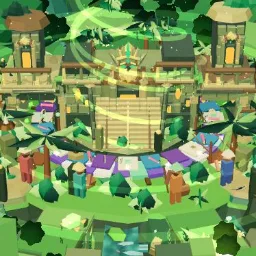
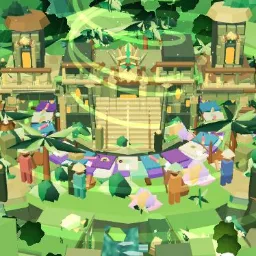
Island 008: blossoming canopy and clearings break up the green
Every fourth canopy cluster around the temple plaza now blossoms in pink,
orange or violet, reusing the leaf silhouettes so the authored triangle
count is unchanged (the high profile sits just under its 180k budget).
Medium and low profiles also get heliconia clumps and bare-earth
clearings. Refreshes the Island 008 voyage portrait.

Claude-Session: https://claude.ai/code/session_01XqK52i9xakX7fjXWS3xbbW

diff --git a/src/features/gamification/level-worlds/dev/Island18JungleExpeditionThreeWorld.ts b/src/features/gamification/level-worlds/dev/Island18JungleExpeditionThreeWorld.ts
@@ -1,4 +1,5 @@
 import * as THREE from 'three';
+import { createIsland18BlossomPass } from './Island18BlossomPass';
 import { JUNGLE_COMPASS_CEREMONY_DURATION_MS } from '../services/islandRunJungleMissionPresentation';
 import { RoundedBoxGeometry } from 'three/addons/geometries/RoundedBoxGeometry.js';
 import { mergeGeometries } from 'three/addons/utils/BufferGeometryUtils.js';
@@ -97,6 +98,10 @@ export interface Island18JungleExpeditionMaterials {
   flower: THREE.MeshStandardMaterial;
   flowerSun: THREE.MeshStandardMaterial;
   flowerCyan: THREE.MeshStandardMaterial;
+  /** Blossoming canopy clusters (Island 008 colour pass). */
+  blossomPink: THREE.MeshStandardMaterial;
+  blossomOrange: THREE.MeshStandardMaterial;
+  blossomViolet: THREE.MeshStandardMaterial;
   biolume: THREE.MeshStandardMaterial;
   basinGround: THREE.MeshStandardMaterial;
   canopyVolume: THREE.ShaderMaterial;
@@ -645,6 +650,9 @@ export function createIsland18JungleExpeditionMaterials(): Island18JungleExpedit
     flower: new THREE.MeshStandardMaterial({ color: 0xed64c6, roughness: 0.46, emissive: 0x71175d, emissiveIntensity: 0.26, side: THREE.DoubleSide }),
     flowerSun: new THREE.MeshStandardMaterial({ color: 0xffd452, roughness: 0.42, emissive: 0x9b5607, emissiveIntensity: 0.28, side: THREE.DoubleSide }),
     flowerCyan: new THREE.MeshStandardMaterial({ color: 0x6cf1e5, roughness: 0.38, emissive: 0x09897d, emissiveIntensity: 0.32, side: THREE.DoubleSide }),
+    blossomPink: new THREE.MeshStandardMaterial({ color: 0xff8cc3, roughness: 0.55, emissive: 0x6b1840, emissiveIntensity: 0.18, side: THREE.DoubleSide }),
+    blossomOrange: new THREE.MeshStandardMaterial({ color: 0xffa64a, roughness: 0.55, emissive: 0x6b3000, emissiveIntensity: 0.18, side: THREE.DoubleSide }),
+    blossomViolet: new THREE.MeshStandardMaterial({ color: 0xb894ff, roughness: 0.55, emissive: 0x35206b, emissiveIntensity: 0.18, side: THREE.DoubleSide }),
     biolume: new THREE.MeshStandardMaterial({ color: 0x9dff9a, roughness: 0.26, emissive: 0x28d76d, emissiveIntensity: 0.72, side: THREE.DoubleSide }),
     basinGround: new THREE.MeshStandardMaterial({ color: 0xffffff, vertexColors: true, roughness: 0.92, metalness: 0, flatShading: true }),
     canopyVolume: new THREE.ShaderMaterial({
@@ -1338,8 +1346,11 @@ function createInstancedCanopyField(
   const root = registerIsland18RuntimePart('jungle-canopy-and-vines', new THREE.Group(), 'foliage');
   root.name = 'ISLAND_18_INSTANCED_JUNGLE_CANOPY_FIELD';
   const leafGeometries = JUNGLE_LEAF_SILHOUETTES.map((silhouette) => createBroadLeafGeometry(silhouette));
-  const materialList = [materials.leafLight, materials.leaf, materials.leafDeep] as const;
-  const placements: Array<Array<{ position: THREE.Vector3; quaternion: THREE.Quaternion; scale: THREE.Vector3 }>> = [[], [], []];
+  // Batches 0-2 are the green leaves; 3-5 are blossoming clusters (every 4th
+  // cluster), reusing leaf silhouettes so the triangle budget is unchanged.
+  const materialList = [materials.leafLight, materials.leaf, materials.leafDeep, materials.blossomPink, materials.blossomOrange, materials.blossomViolet] as const;
+  const geometryForBatch = [0, 1, 2, 0, 1, 2] as const;
+  const placements: Array<Array<{ position: THREE.Vector3; quaternion: THREE.Quaternion; scale: THREE.Vector3 }>> = [[], [], [], [], [], []];
   const euler = new THREE.Euler();
   for (let clusterIndex = 0; clusterIndex < clusterCount; clusterIndex += 1) {
     const rawAngle = clusterIndex / clusterCount * Math.PI * 2 + (clusterIndex % 5) * 0.08;
@@ -1354,7 +1365,11 @@ function createInstancedCanopyField(
     );
     for (let leafIndex = 0; leafIndex < 7; leafIndex += 1) {
       const leafAngle = leafIndex / 7 * Math.PI * 2 + (leafIndex % 2) * 0.22;
-      const materialIndex = leafIndex % 3 === 0 ? 0 : leafIndex % 2 === 0 ? 1 : 2;
+      const greenIndex = leafIndex % 3 === 0 ? 0 : leafIndex % 2 === 0 ? 1 : 2;
+      const blossoming = clusterIndex % 4 === 1;
+      // Keep each leaf's silhouette (same geometry, same triangles); blossom
+      // colour follows the silhouette: pink banana, orange monstera, violet heartleaf.
+      const materialIndex = blossoming ? 3 + greenIndex : greenIndex;
       placements[materialIndex].push({
         position: clusterPosition.clone().add(new THREE.Vector3(
           Math.cos(leafAngle) * 0.24 * clusterScale,
@@ -1372,7 +1387,7 @@ function createInstancedCanopyField(
   }
   const matrix = new THREE.Matrix4();
   const meshes = placements.map((entries, materialIndex) => {
-    const mesh = new THREE.InstancedMesh(leafGeometries[materialIndex], materialList[materialIndex], entries.length);
+    const mesh = new THREE.InstancedMesh(leafGeometries[geometryForBatch[materialIndex]], materialList[materialIndex], entries.length);
     mesh.name = `ISLAND_18_CANOPY_LEAF_BATCH_${materialIndex + 1}`;
     entries.forEach((entry, index) => {
       matrix.compose(entry.position, entry.quaternion, entry.scale);
@@ -3337,7 +3352,7 @@ export function buildIsland18JungleExpeditionLandmark(
   return architecture;
 }
 
-function sampleJungleBasinHeight(radius: number, angle: number) {
+export function sampleJungleBasinHeight(radius: number, angle: number) {
   const rise = THREE.MathUtils.smoothstep(radius, 5.1, 46);
   const ridgeStrength = THREE.MathUtils.smoothstep(radius, 7, 17);
   const ridge = (
@@ -5419,6 +5434,8 @@ export function createIsland18JungleExpeditionLivingAmbience(
   root.add(templeOvergrowth.root);
   const detailGarden = createJungleDetailGarden(profile, materials);
   root.add(detailGarden.root);
+  const blossomPass = createIsland18BlossomPass({ quality: profile.id, sampleGroundY: sampleJungleBasinHeight });
+  root.add(blossomPass.root);
 
   const hangingVines = registerIsland18RuntimePart('jungle-canopy-and-vines', new THREE.Group(), 'foliage');
   hangingVines.name = 'ISLAND_18_HANGING_VINES';

diff --git a/src/features/gamification/level-worlds/dev/Island18BlossomPass.ts b/src/features/gamification/level-worlds/dev/Island18BlossomPass.ts
@@ -1,0 +1,86 @@
+import * as THREE from 'three';
+
+/**
+ * Island 008 (world source 18) colour and detail pass (user feedback
+ * 2026-09-30: "too green and undetailed"). Heliconia clumps and bare-earth
+ * clearings break up the uniform green (blossoming canopy clusters live in
+ * the canopy field); everything stays outside the route ring and off the front
+ * stream lane. Presentation only, instanced (2 draw calls).
+ */
+export function createIsland18BlossomPass(options: {
+  quality: 'low' | 'medium' | 'high';
+  sampleGroundY: (radius: number, angle: number) => number;
+}): { root: THREE.Group; dispose: () => void } {
+  const root = new THREE.Group();
+  root.name = 'ISLAND_18_BLOSSOM_AND_CLEARING_PASS';
+  root.userData.presentationOnly = true;
+  const disposables: Array<{ dispose: () => void }> = [];
+  const track = <T extends { dispose: () => void }>(item: T) => { disposables.push(item); return item; };
+  // The high profile sits just under its 180k authored-triangle budget, so
+  // most colour comes from blossoming canopy clusters (no extra triangles);
+  // this pass only adds cheap clearings and a few heliconia clumps.
+  // High has no headroom left, so it relies on the blossoming canopy alone.
+  const heliconiaCount = options.quality === 'high' ? 0 : 14;
+  const clearingCount = options.quality === 'high' ? 0 : options.quality === 'low' ? 10 : 12;
+
+  const heliconiaMaterial = track(new THREE.MeshStandardMaterial({ color: 0xff5a36, roughness: 0.5, emissive: 0x8a1c00, emissiveIntensity: 0.25, flatShading: true }));
+  const clearingMaterial = track(new THREE.MeshStandardMaterial({ color: 0xb98a55, roughness: 1, polygonOffset: true, polygonOffsetFactor: -2 }));
+
+  const heliconiaGeometry = track(new THREE.ConeGeometry(0.12, 0.42, 5));
+  const clearingGeometry = track(new THREE.CircleGeometry(1, 14));
+
+  // Keep clear of the route ring (r < 6.55) and the front stream lane.
+  const usable = (x: number, z: number) => Math.hypot(x, z) >= 6.7 && !(Math.abs(x) < 3 && z > 5.2);
+  const place = (index: number, salt: number, minRadius: number, spread: number) => {
+    for (let attempt = 0; attempt < 6; attempt += 1) {
+      const angle = (index + attempt * 0.37) * 2.399963 + salt;
+      const radius = minRadius + (((index * 31 + attempt * 7 + salt * 13) % 17) / 17) * spread;
+      const x = Math.cos(angle) * radius;
+      const z = Math.sin(angle) * radius;
+      if (usable(x, z)) return { x, z, radius, angle };
+    }
+    return null;
+  };
+
+  const dummy = new THREE.Object3D();
+  const heliconias: THREE.Matrix4[] = [];
+  for (let index = 0; index < heliconiaCount; index += 1) {
+    const spot = place(index + 40, 1.9, 6.8, 4.6);
+    if (!spot) continue;
+    const ground = options.sampleGroundY(spot.radius, spot.angle) + 1.0;
+    for (let stem = 0; stem < 3; stem += 1) {
+      dummy.position.set(spot.x + (stem - 1) * 0.12, ground + 0.2 + stem * 0.05, spot.z + ((stem * 7) % 3 - 1) * 0.1);
+      dummy.rotation.set((stem - 1) * 0.3, index, (stem - 1) * 0.25);
+      dummy.scale.setScalar(0.9 + (index % 3) * 0.15);
+      dummy.updateMatrix();
+      heliconias.push(dummy.matrix.clone());
+    }
+  }
+
+  const clearings: THREE.Matrix4[] = [];
+  for (let index = 0; index < clearingCount; index += 1) {
+    const spot = place(index + 90, 3.3, 7.0, 5.5);
+    if (!spot) continue;
+    const ground = options.sampleGroundY(spot.radius, spot.angle) + 1.005;
+    dummy.position.set(spot.x, ground, spot.z);
+    dummy.rotation.set(-Math.PI / 2, 0, index);
+    dummy.scale.set(0.7 + (index % 3) * 0.3, 0.45 + (index % 2) * 0.25, 1);
+    dummy.updateMatrix();
+    clearings.push(dummy.matrix.clone());
+  }
+
+  const addBatch = (name: string, geometry: THREE.BufferGeometry, material: THREE.Material, matrices: THREE.Matrix4[], shadows = true) => {
+    if (matrices.length === 0) return;
+    const mesh = new THREE.InstancedMesh(geometry, material, matrices.length);
+    mesh.name = name;
+    matrices.forEach((entry, index) => mesh.setMatrixAt(index, entry));
+    mesh.instanceMatrix.needsUpdate = true;
+    mesh.castShadow = shadows && options.quality !== 'low';
+    mesh.receiveShadow = true;
+    root.add(mesh);
+  };
+  addBatch('ISLAND_18_BARE_EARTH_CLEARINGS', clearingGeometry, clearingMaterial, clearings, false);
+  addBatch('ISLAND_18_HELICONIA_CLUMPS', heliconiaGeometry, heliconiaMaterial, heliconias);
+  root.userData.blossomPass = { heliconias: heliconias.length, clearings: clearings.length };
+  return { root, dispose: () => disposables.forEach((item) => item.dispose()) };
+}
